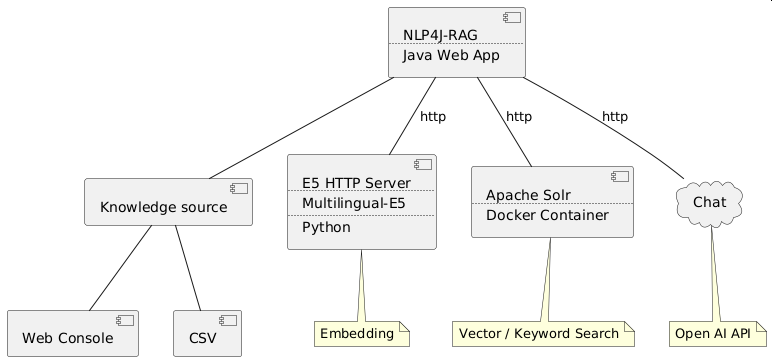
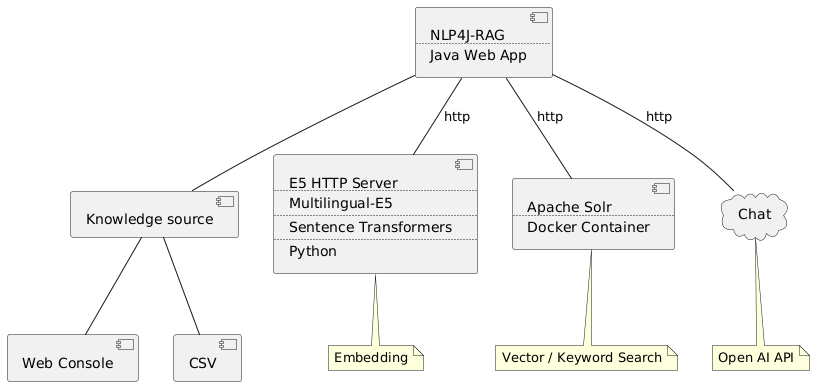
work20240819b

diff --git a/nlp4j/nlp4j-web-rag/README.md b/nlp4j/nlp4j-web-rag/README.md
@@ -2,7 +2,7 @@
 
 # PUML Component Diagram
 
-![Diagram](README_diagram1.png)
+<img src="README_diagram1.png" width="640px">
 
 ```
 @startuml
@@ -31,6 +31,8 @@ component C2[
 E5 HTTP Server
 ....
 Multilingual-E5
+....
+Sentence Transformers
 ....
 Python
 ]
